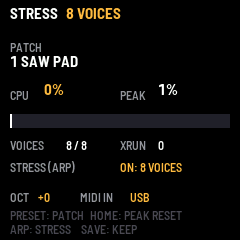
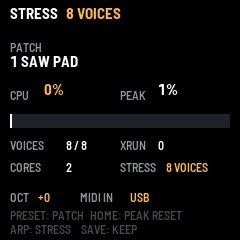
SQ-80 TEST 0.2.0: a lighter engine render, and the second core
The render goes voice by voice between control ticks, with the filter's
coefficients (and its divisions) moved to filter_set and a division-free soft
clip: against SQ8L the factory bank is unchanged (2.68 dB median spectrum
difference, was 2.69). sq80_render_part / sq80_render_commit render disjoint
voice ranges at once; the FM-1 app gives voices 4..7 to the second core (with
the fallback to one core).

Claude-Session: https://claude.ai/code/session_015VhpbFzKfhxYN2TEVSjumr

Changed region(s): [[0.4958, 0.6708, 0.875, 0.7292], [0.0292, 0.6708, 0.3208, 0.7292]]

diff --git a/src/sq80/sq80_synth.c b/src/sq80/sq80_synth.c
@@ -17,15 +17,6 @@ static float clampf(float v, float lo, float hi) { return v < lo ? lo : v > hi ?
 static int level_bytes(int c) { return c >= 0 ? 2 * c : 2 * (c - 1); }   /* -63..63 -> -128..126 */
 static float semitone_ratio(float semis) { return sq80_exp2f(semis * (1.0f / 12.0f)); }
 
-/* tanh, rational approximation (error < 2.5 % before the clamp), cheap enough per sample */
-static float fast_tanh(float x) {
-    float x2;
-    if (x > 3.0f) return 1.0f;
-    if (x < -3.0f) return -1.0f;
-    x2 = x * x;
-    return x * (27.0f + x2) / (27.0f + 9.0f * x2);
-}
-
 static float dca_gain(float level) {
     int i = 1;
     float t, db;
@@ -189,20 +180,34 @@ static int lfo_tick(sq80_lfo *l, int mod_source) {
 /* ------------------------------------------------------------------------- filter */
 
 static void filter_set(sq80_filter *f, float hz, float resonance, float sample_rate) {
+    float g, G;
     hz = clampf(hz, 10.0f, sample_rate * 0.45f);
-    f->g = sq80_tanf(PI_F * hz / sample_rate);
+    g = sq80_tanf(PI_F * hz / sample_rate);
+    G = g / (1.0f + g);
     f->k = resonance;
+    f->G = G;
+    f->G2 = G * G;
+    f->G3 = f->G2 * G;
+    f->G4 = f->G2 * f->G2;
+    f->inv = 1.0f / (1.0f + g);
+    f->den = 1.0f / (1.0f + resonance * f->G4);
+}
+
+/* soft clip, division-free: x - 4x^3/27 up to |x| = 1.5, then +-1 (tanh's slope at 0, flat at the knee) */
+static float soft_clip(float x) {
+    if (x > 1.5f) return 1.0f;
+    if (x < -1.5f) return -1.0f;
+    return x - (4.0f / 27.0f) * x * x * x;
 }
 
 static float filter_process(sq80_filter *f, float x) {
-    /* 4-pole zero-delay-feedback ladder with passband compensation and a soft input */
-    const float g = f->g, k = f->k;
-    const float G = g / (1.0f + g), inv = 1.0f / (1.0f + g);
-    const float S = (G * G * G * f->s[0] + G * G * f->s[1] + G * f->s[2] + f->s[3]) * inv;
-    const float G4 = G * G * G * G;
+    /* 4-pole zero-delay-feedback ladder with passband compensation and a soft input; the coefficients
+     * (filter_set, every 16 samples) leave no division per sample */
+    const float G = f->G, k = f->k;
+    const float S = (f->G3 * f->s[0] + f->G2 * f->s[1] + G * f->s[2] + f->s[3]) * f->inv;
     const float xin = (1.0f + SQ80_FILTER_BASS_COMPENSATION * k) * x;
-    const float y4 = (G4 * xin + S) / (1.0f + k * G4);
-    float u = fast_tanh(SQ80_FILTER_DRIVE * (xin - k * y4)) * (1.0f / SQ80_FILTER_DRIVE);
+    const float y4 = (f->G4 * xin + S) * f->den;
+    float u = soft_clip(SQ80_FILTER_DRIVE * (xin - k * y4)) * (1.0f / SQ80_FILTER_DRIVE);
     int i;
     for (i = 0; i < 4; ++i) {
         const float v = (u - f->s[i]) * G;
@@ -484,48 +489,84 @@ static float render_doc(sq80_synth *s, sq80_voice *v) {
     return sum;
 }
 
-void sq80_render(sq80_synth *s, float *left, float *right, int n) {
-    int k, i;
-    for (k = 0; k < n; ++k) {
-        float l = 0.0f, r = 0.0f;
-        int tick;
-        s->control_countdown -= 1.0f;
-        tick = s->control_countdown <= 0.0f;
-        if (tick) s->control_countdown += s->samples_per_tick;
-        ++s->filter_counter;
-        for (i = 0; i < SQ80_VOICES; ++i) {
-            sq80_voice *v = &s->voices[i];
-            float t, c0, c1, c2, c3, x, y;
-            if (!v->active) continue;
-            if (tick) {
-                control_tick(s, v);
-                if (!v->active) continue;
-            }
-            v->doc_phase += s->doc_step;
-            while (v->doc_phase >= 1.0f) {
-                v->doc_phase -= 1.0f;
-                v->hist[0] = v->hist[1];
-                v->hist[1] = v->hist[2];
-                v->hist[2] = v->hist[3];
-                v->hist[3] = render_doc(s, v);
-            }
-            /* cubic Hermite between hist[1] and hist[2] */
-            t = v->doc_phase;
-            c0 = v->hist[1];
-            c1 = 0.5f * (v->hist[2] - v->hist[0]);
-            c2 = v->hist[0] - 2.5f * v->hist[1] + 2.0f * v->hist[2] - 0.5f * v->hist[3];
-            c3 = 0.5f * (v->hist[3] - v->hist[0]) + 1.5f * (v->hist[1] - v->hist[2]);
-            x = ((c3 * t + c2) * t + c1) * t + c0;
-
-            v->cutoff += (v->cutoff_target - v->cutoff) * 0.002f;
-            if ((s->filter_counter & 15u) == 0) filter_set(&v->filter, v->cutoff, v->resonance, s->sample_rate);
-            y = filter_process(&v->filter, x);
-            v->gain_l += (v->gain_l_target - v->gain_l) * 0.004f;
-            v->gain_r += (v->gain_r_target - v->gain_r) * 0.004f;
-            l += y * v->gain_l;
-            r += y * v->gain_r;
+/* one voice over m samples (no control tick among them), added into left and right */
+static void render_voice(sq80_synth *s, sq80_voice *v, float *left, float *right, int m, uint32_t fc) {
+    const float doc_step = s->doc_step;
+    float h0 = v->hist[0], h1 = v->hist[1], h2 = v->hist[2], h3 = v->hist[3], ph = v->doc_phase;
+    float cutoff = v->cutoff, gl = v->gain_l, gr = v->gain_r;
+    const float ct = v->cutoff_target, glt = v->gain_l_target, grt = v->gain_r_target;
+    int k;
+    for (k = 0; k < m; ++k) {
+        float c1, c2, c3, x, y;
+        ph += doc_step;
+        while (ph >= 1.0f) {
+            ph -= 1.0f;
+            h0 = h1;
+            h1 = h2;
+            h2 = h3;
+            h3 = render_doc(s, v);
         }
-        left[k] = l;
-        right[k] = r;
+        /* cubic Hermite between h1 and h2 */
+        c1 = 0.5f * (h2 - h0);
+        c2 = h0 - 2.5f * h1 + 2.0f * h2 - 0.5f * h3;
+        c3 = 0.5f * (h3 - h0) + 1.5f * (h1 - h2);
+        x = ((c3 * ph + c2) * ph + c1) * ph + h1;
+
+        cutoff += (ct - cutoff) * 0.002f;
+        if (((fc + (uint32_t)k) & 15u) == 0) filter_set(&v->filter, cutoff, v->resonance, s->sample_rate);
+        y = filter_process(&v->filter, x);
+        gl += (glt - gl) * 0.004f;
+        gr += (grt - gr) * 0.004f;
+        left[k] += y * gl;
+        right[k] += y * gr;
     }
+    v->hist[0] = h0; v->hist[1] = h1; v->hist[2] = h2; v->hist[3] = h3;
+    v->doc_phase = ph;
+    v->cutoff = cutoff;
+    v->gain_l = gl;
+    v->gain_r = gr;
+}
+
+/* Voices first .. first+count-1 over n samples into left and right (cleared first). Reads the synth's
+ * shared state and writes only those voices: two calls on disjoint voices may run at once (two cores).
+ * The block's control ticks fall where sq80_render puts them; sq80_render_commit then moves the clock. */
+void sq80_render_part(sq80_synth *s, float *left, float *right, int n, int first, int count) {
+    float countdown = s->control_countdown;
+    uint32_t fc = s->filter_counter;
+    int k = 0, i, last = first + count;
+    if (first < 0) first = 0;
+    if (last > SQ80_VOICES) last = SQ80_VOICES;
+    for (i = 0; i < n; ++i) left[i] = right[i] = 0.0f;
+    while (k < n) {
+        int m = 1;
+        /* this sample: a control tick? then the samples after it up to the next tick, voice by voice */
+        countdown -= 1.0f;
+        if (countdown <= 0.0f) {
+            countdown += s->samples_per_tick;
+            for (i = first; i < last; ++i)
+                if (s->voices[i].active) control_tick(s, &s->voices[i]);
+        }
+        while (k + m < n && countdown - 1.0f > 0.0f) {
+            countdown -= 1.0f;
+            ++m;
+        }
+        for (i = first; i < last; ++i)
+            if (s->voices[i].active) render_voice(s, &s->voices[i], left + k, right + k, m, fc + 1u);
+        fc += (uint32_t)m;
+        k += m;
+    }
+}
+
+void sq80_render_commit(sq80_synth *s, int n) {
+    int k;
+    for (k = 0; k < n; ++k) {
+        s->control_countdown -= 1.0f;
+        if (s->control_countdown <= 0.0f) s->control_countdown += s->samples_per_tick;
+    }
+    s->filter_counter += (uint32_t)n;
+}
+
+void sq80_render(sq80_synth *s, float *left, float *right, int n) {
+    sq80_render_part(s, left, right, n, 0, SQ80_VOICES);
+    sq80_render_commit(s, n);
 }

diff --git a/app/app.c b/app/app.c
@@ -5,6 +5,8 @@
  * pitch bend and pressure. PRESET picks one of four test sounds, OCT- / OCT+ the octave, SAVE keeps both.
  * ARP is the stress test: it holds an eight-note chord on every voice, the engine's worst case. The screen
  * shows the audio CPU load now and its peak since the last reset (HOME), and the audio under-runs.
+ * Two cores: the second renders voices 4..7 while the first renders 0..3 (fm1.toml cpu2; one core if it
+ * does not start, or gives up).
  *
  * The waves are a synthetic test set built in RAM (sq80_test_pack): a sine, a saw, a square and a decaying
  * one-shot. No Ensoniq data is in this firmware.
@@ -32,6 +34,8 @@ static sq80_rompack rom;
 static sq80_synth syn;
 static sq80_patch patches[NPATCH];
 static float buf_l[APP_BLOCK], buf_r[APP_BLOCK];
+static float buf2_l[APP_BLOCK], buf2_r[APP_BLOCK];   /* the second core's voices */
+static uint8_t two_cores;                /* the second core takes voices 4..7 */
 static float gain_now;
 
 static void make_patches(void)
@@ -200,6 +204,11 @@ static void events(void)                     /* audio interrupt */
 
 static volatile uint32_t voices_now;
 
+static void core2_job(uint32_t n)            /* the second core: voices 4..7 */
+{
+    sq80_render_part(&syn, buf2_l, buf2_r, (int)n, SQ80_VOICES / 2, SQ80_VOICES / 2);
+}
+
 void app_render(int32_t *lr, uint32_t n, uint32_t master_q12)
 {
     uint32_t i;
@@ -208,7 +217,18 @@ void app_render(int32_t *lr, uint32_t n, uint32_t master_q12)
     midi_in();
     if (n > APP_BLOCK)
         n = APP_BLOCK;
-    sq80_render(&syn, buf_l, buf_r, (int)n);
+    if (two_cores && plat_cpu2_on() && plat_cpu2_run(core2_job, n)) {
+        sq80_render_part(&syn, buf_l, buf_r, (int)n, 0, SQ80_VOICES / 2);
+        if (plat_cpu2_wait() != 0)           /* given up: its voices here */
+            sq80_render_part(&syn, buf2_l, buf2_r, (int)n, SQ80_VOICES / 2, SQ80_VOICES / 2);
+        for (i = 0; i < n; i++) {
+            buf_l[i] += buf2_l[i];
+            buf_r[i] += buf2_r[i];
+        }
+        sq80_render_commit(&syn, (int)n);
+    } else {
+        sq80_render(&syn, buf_l, buf_r, (int)n);
+    }
     for (i = 0; i < n; i++) {
         float l, r;
         gain_now += (gain - gain_now) * 0.004f;
@@ -242,6 +262,7 @@ void app_init(void)
     sq80_rompack_load(&rom, pack_buf, sq80_test_pack(pack_buf));
     sq80_init(&syn, &rom, 44100.0f);
     make_patches();
+    two_cores = plat_cpu2_set(1) == 0;
     if (plat_store_load(OBJ_SETTINGS, &set, sizeof set) != (int)sizeof set || set.magic != SET_MAGIC
         || set.octave < -2 || set.octave > 2 || set.patch >= NPATCH)
         settings_defaults();
@@ -485,8 +506,10 @@ static void draw(void)
     cv_text(120, 102, &FONT_XS, "XRUN", C_GRAY);
     int_text((int32_t)plat_xruns(), t);
     cv_text(158, 102, &FONT_XS, t, plat_xruns() ? RGB(230, 70, 60) : C_WHITE);
-    cv_text(10, 124, &FONT_XS, "STRESS (ARP)", C_GRAY);
-    cv_text(120, 124, &FONT_XS, ui.stress ? "ON: 8 VOICES" : "OFF", ui.stress ? C_HI : C_DIM);
+    cv_text(10, 124, &FONT_XS, "CORES", C_GRAY);
+    cv_text(66, 124, &FONT_XS, two_cores && plat_cpu2_on() ? "2" : "1", C_WHITE);
+    cv_text(120, 124, &FONT_XS, "STRESS", C_GRAY);
+    cv_text(166, 124, &FONT_XS, ui.stress ? "8 VOICES" : "OFF", ui.stress ? C_HI : C_DIM);
     cv_blit(0, 36);
     /* the footer: octave, MIDI in, the help */
     cv_begin(240, 52, C_BLACK);
@@ -554,6 +577,8 @@ int app_expect(const char *what, int *got)
         *got = last_note;
     else if (!strcmp(what, "dirty"))
         *got = set_dirty;
+    else if (!strcmp(what, "cores"))
+        *got = two_cores && plat_cpu2_on() ? 2 : 1;
     else if (!strcmp(what, "stress"))
         *got = ui.stress;
     else

diff --git a/tests/test_main.cpp b/tests/test_main.cpp
@@ -219,6 +219,29 @@ int main() {
         }
     }
 
+    {
+        // two cores: two parts on disjoint voices, summed, equal one render
+        basicProgram(prog, 0);
+        sq80_decode_patch(prog, &p);
+        static sq80_synth a, b;
+        sq80_init(&a, &rom, 44100.0f);
+        sq80_init(&b, &rom, 44100.0f);
+        sq80_set_patch(&a, &p);
+        sq80_set_patch(&b, &p);
+        for (int i = 0; i < 8; ++i) { sq80_note_on(&a, 48 + 3 * i, 100); sq80_note_on(&b, 48 + 3 * i, 100); }
+        std::vector<float> la(256), ra(256), l1(256), r1(256), l2(256), r2(256);
+        float worst = 0.0f;
+        for (int blk = 0; blk < 40; ++blk) {
+            sq80_render(&a, la.data(), ra.data(), 256);
+            sq80_render_part(&b, l1.data(), r1.data(), 256, 0, 4);
+            sq80_render_part(&b, l2.data(), r2.data(), 256, 4, 4);
+            sq80_render_commit(&b, 256);
+            for (int i = 0; i < 256; ++i)
+                worst = std::max(worst, std::max(std::fabs(la[i] - (l1[i] + l2[i])), std::fabs(ra[i] - (r1[i] + r2[i]))));
+        }
+        CHECK(worst < 1e-5f, "parts differ from the whole by %g", worst);
+    }
+
     std::printf(failures ? "%d FAILED\n" : "all tests passed\n", failures);
     return failures ? 1 : 0;
 }

diff --git a/src/sq80/sq80.h b/src/sq80/sq80.h
@@ -129,7 +129,7 @@ typedef struct {
     float amp, amp_target;
 } sq80_osc;
 
-typedef struct { float g, k, s[4]; } sq80_filter;
+typedef struct { float k, G, G2, G3, G4, inv, den, s[4]; } sq80_filter;   /* coefficients from filter_set */
 
 typedef struct {
     uint8_t active, released;
@@ -169,6 +169,10 @@ void sq80_channel_pressure(sq80_synth *s, int value);
 void sq80_all_notes_off(sq80_synth *s);
 /* Renders n stereo frames into left/right (overwritten). */
 void sq80_render(sq80_synth *s, float *left, float *right, int n);
+/* The same in parts, for two cores: sq80_render_part for disjoint voice ranges (each into its own
+ * buffers, cleared first; they may run at once), the buffers summed, then sq80_render_commit(s, n) once. */
+void sq80_render_part(sq80_synth *s, float *left, float *right, int n, int first, int count);
+void sq80_render_commit(sq80_synth *s, int n);
 int sq80_active_voices(const sq80_synth *s);
 
 #ifdef __cplusplus
